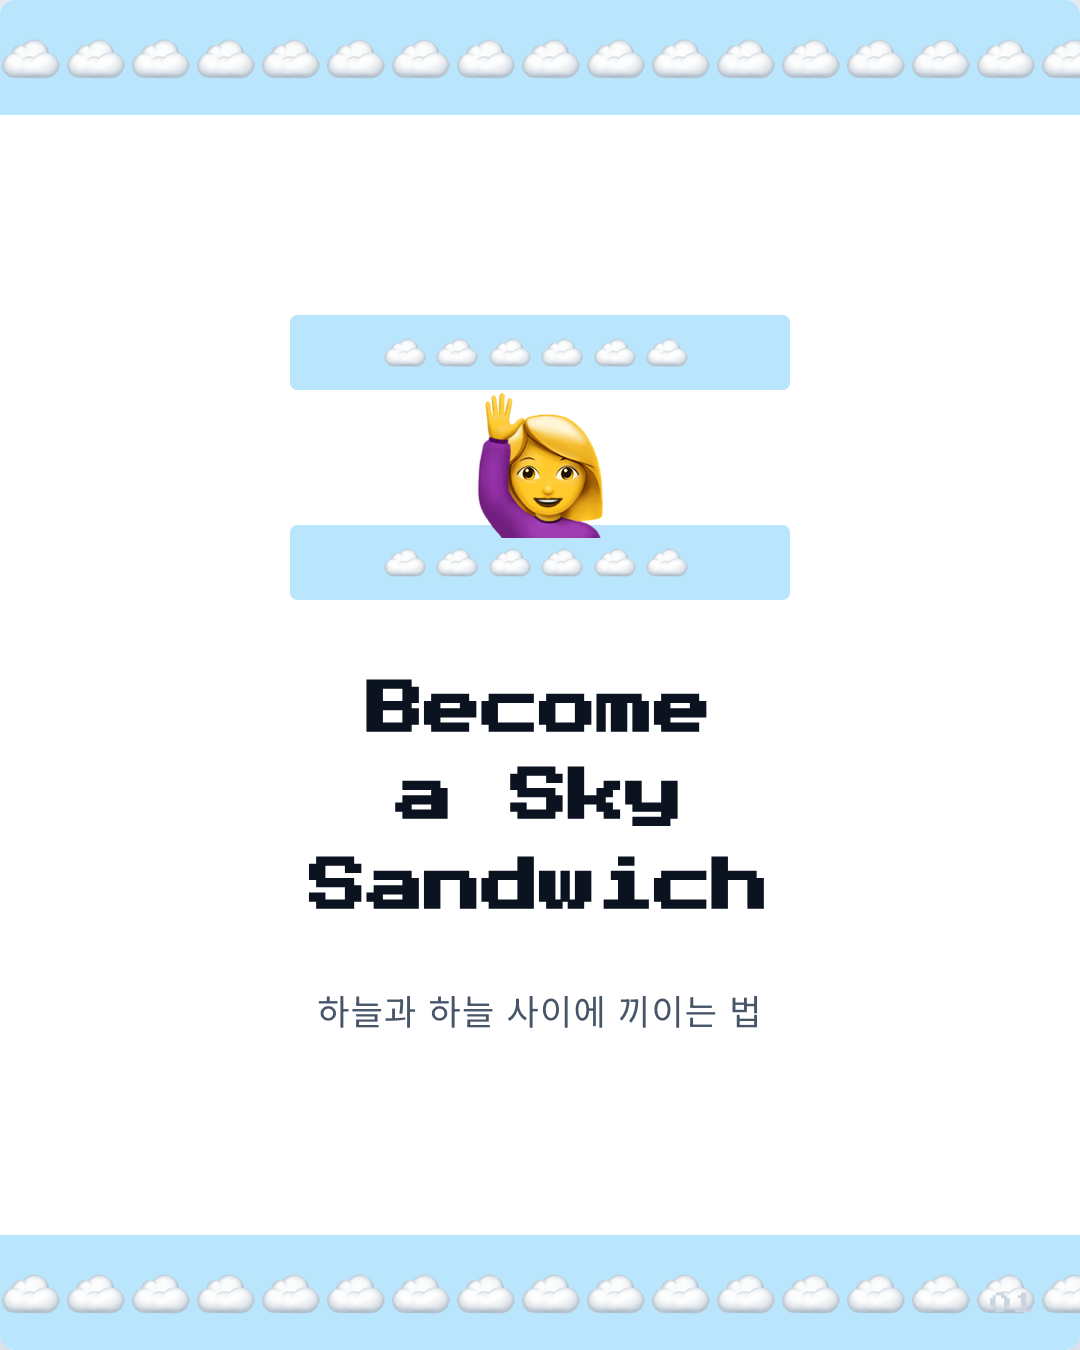
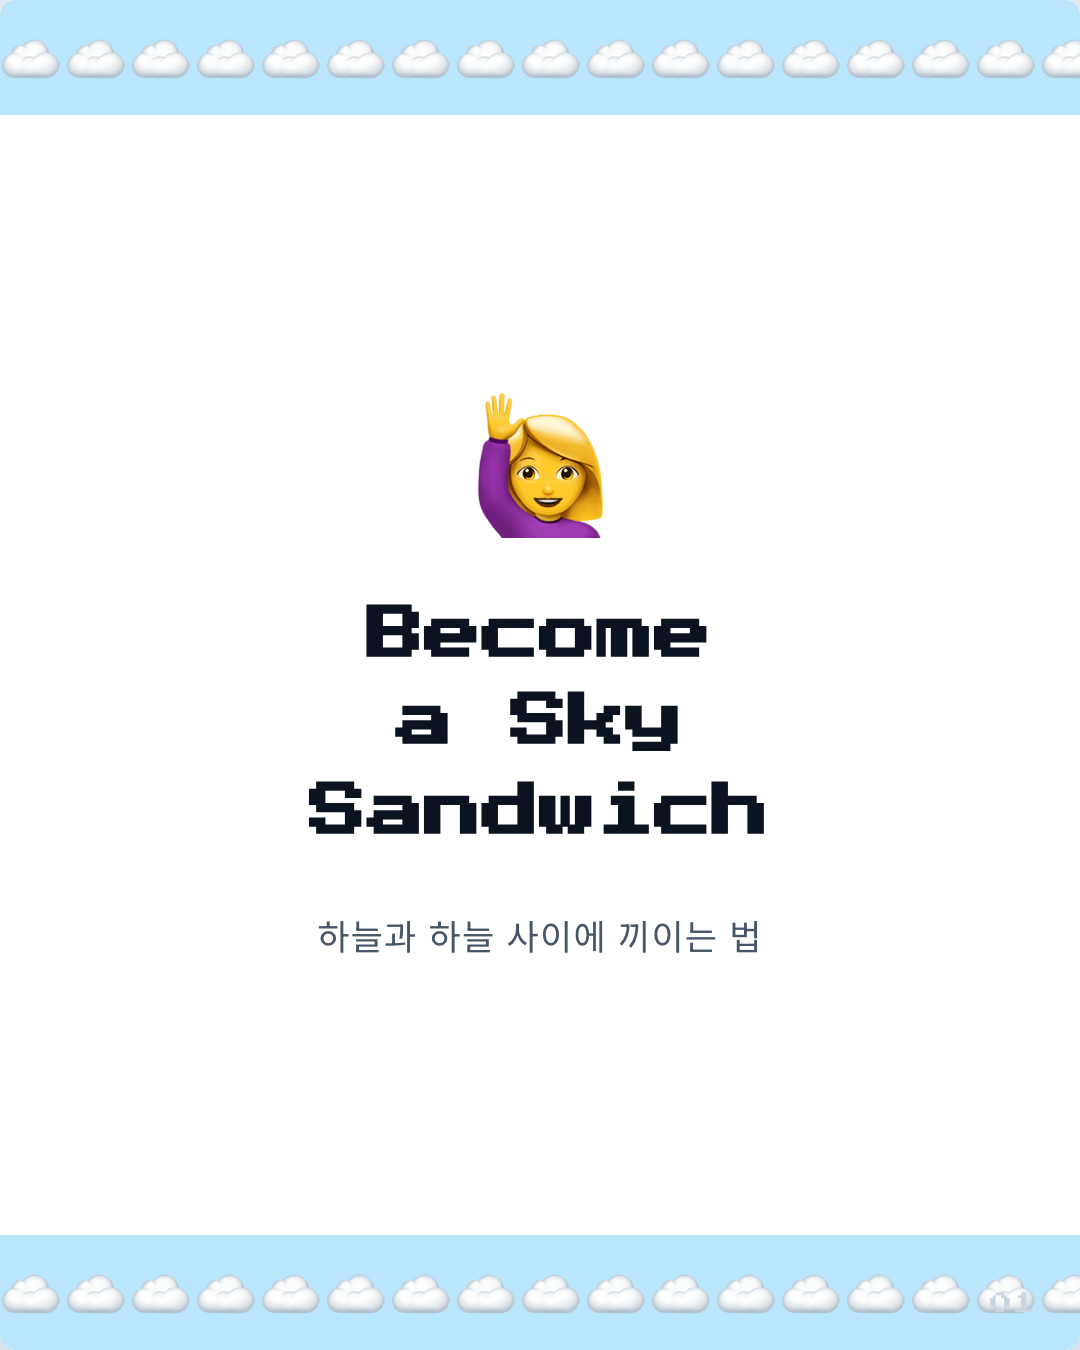
tweak: 표지 중복 구름 띠 제거, 🙋♀️만 남김

diff --git a/cardnews.html b/cardnews.html
@@ -213,9 +213,7 @@
     <section class="card cover">
       <div class="cloud-band top">☁️☁️☁️☁️☁️☁️☁️☁️☁️☁️☁️☁️☁️☁️☁️☁️☁️☁️☁️☁️</div>
       <div class="sandwich-stack">
-        <div class="band-mini">☁️☁️☁️☁️☁️☁️</div>
         <div class="me">🙋♀️</div>
-        <div class="band-mini">☁️☁️☁️☁️☁️☁️</div>
       </div>
       <h1 class="title">Become<br>a Sky<br>Sandwich</h1>
       <p class="sub ko">하늘과 하늘 사이에 끼이는 법</p>